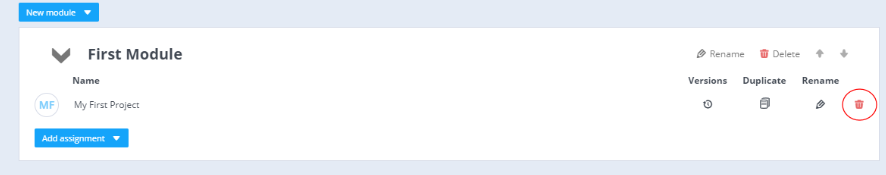
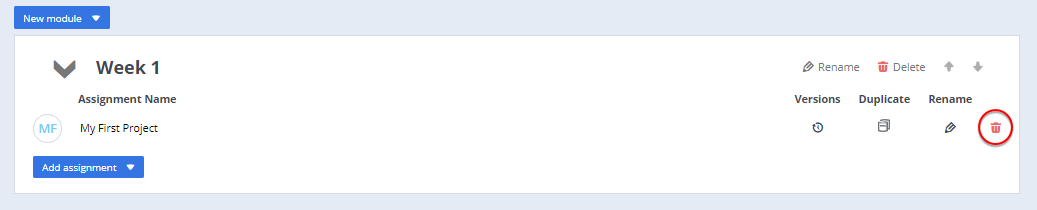
updated few screenshots and fixed some typos (#267)

Changed region(s): [[0.0, 0.0, 1.0, 0.9143], [0.0609, 0.4286, 0.1828, 0.5143]]

diff --git a/source/instructors/admin/integration/lti1-3BS-D2L.rst b/source/instructors/admin/integration/lti1-3BS-D2L.rst
@@ -88,7 +88,7 @@ In Brightspace/D2L
 LTI Course copy for Brightspace/D2L
 -----------------------------------
 
-Enabling this setting allows existing Codio course content used in your LMS to be copied into a new Codio course and a new course in your LMS. This should be enabled for the courses connected with the "Master" course in your LMS. The parameter will be disabled by default for for all copied courses.
+Enabling this setting allows existing Codio course content used in your LMS to be copied into a new Codio course and a new course in your LMS. This should be enabled for the courses connected with the "Master" course in your LMS. The parameter will be disabled by default for all copied courses.
 
 First enable :ref:`LTI Constant URLs <lti-keys-and-urls-information>` for your course.
 

diff --git a/source/instructors/admin/integration/lti-course-copy.rst b/source/instructors/admin/integration/lti-course-copy.rst
@@ -6,7 +6,7 @@
 LTI Course copy
 ===============
 
-Enabling this setting allows existing Codio course content used in your LMS to be copied into a new Codio course and a new course in your LMS. This should be enabled for the courses connected with the "Master" course in your LMS. The parameter will be disabled by default for for all copied courses.
+Enabling this setting allows existing Codio course content used in your LMS to be copied into a new Codio course and a new course in your LMS. This should be enabled for the courses connected with the "Master" course in your LMS. The parameter will be disabled by default for all copied courses.
 
 **Video - LTI Course Copy:**
 

diff --git a/source/instructors/admin/integration/lms-systems/blackboard.rst b/source/instructors/admin/integration/lms-systems/blackboard.rst
@@ -100,7 +100,7 @@ We now return to Blackboard complete the mapping.
 34.  Enter a name for the content
 35.  Paste in the **LTI Integration URL** that you just copied to the clipboard from Codio
 36.  Check the box **Ths is a link to a tool provider**
-37.  Select **Yes** for the field **Enable Evaulation** after which more fields will appear
+37.  Select **Yes** for the field **Enable Evaluation** after which more fields will appear
 38.  Set the points you want to award for this content (Codio will automatically scale the percentage value it uses to the points you specify here)
 39.  Save the content settings.
 
